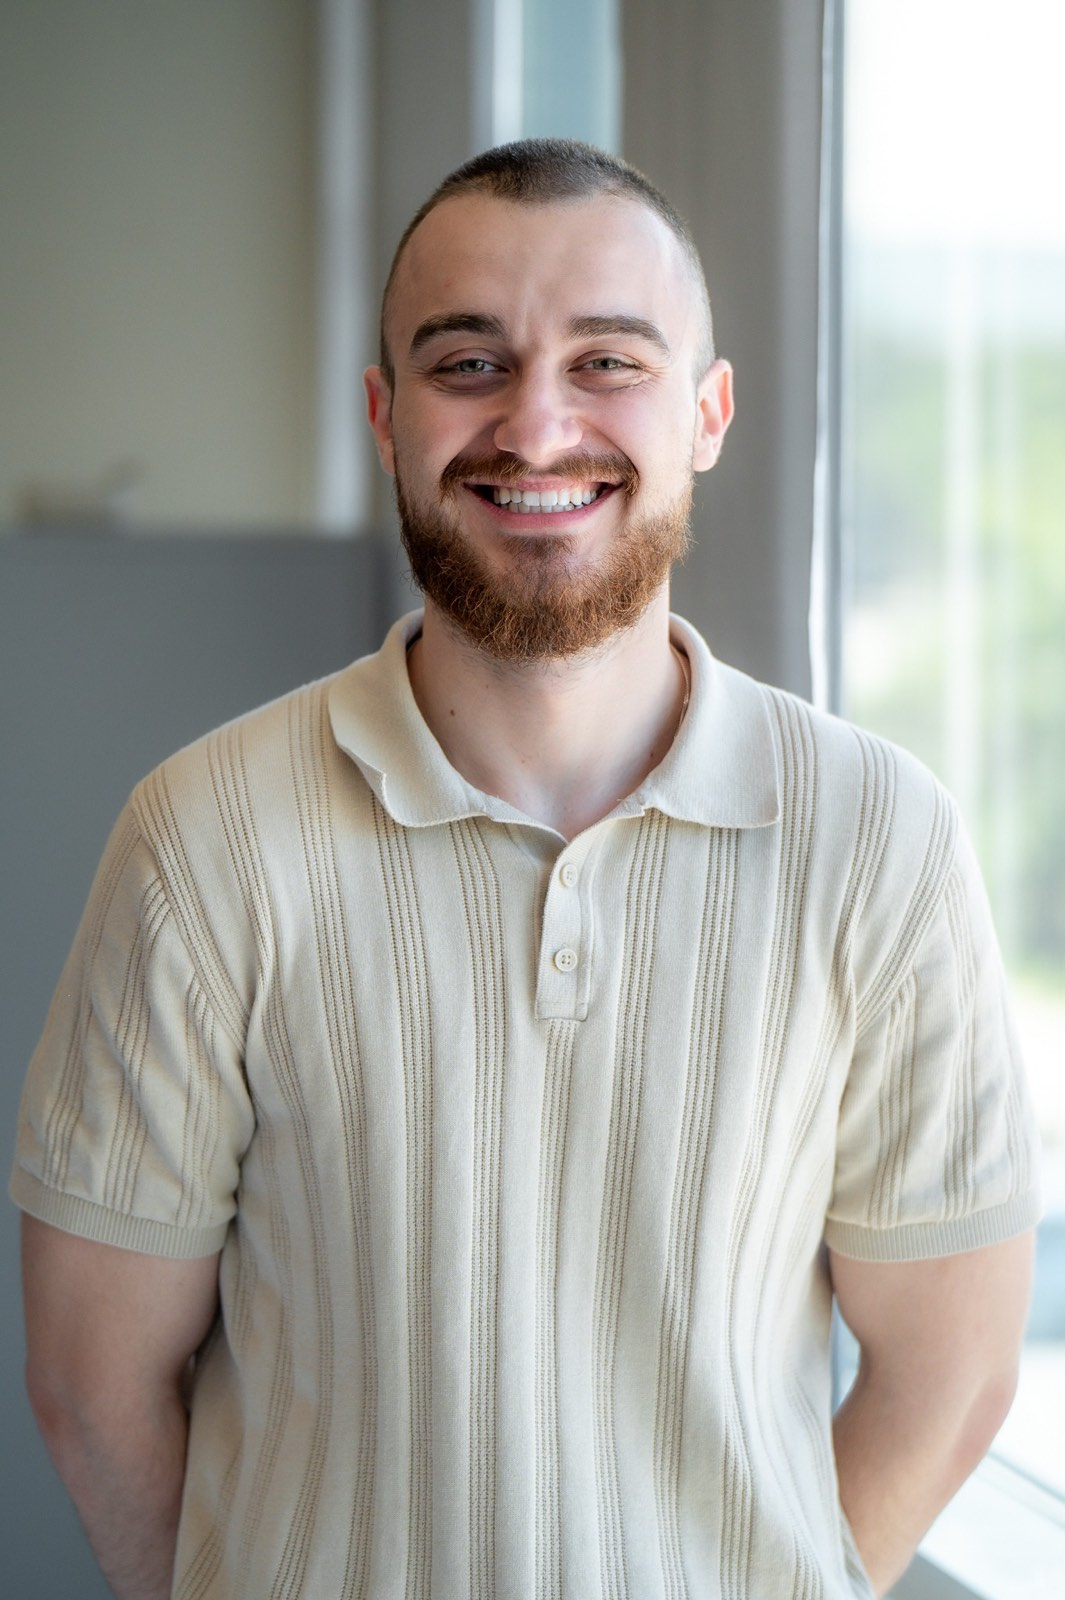
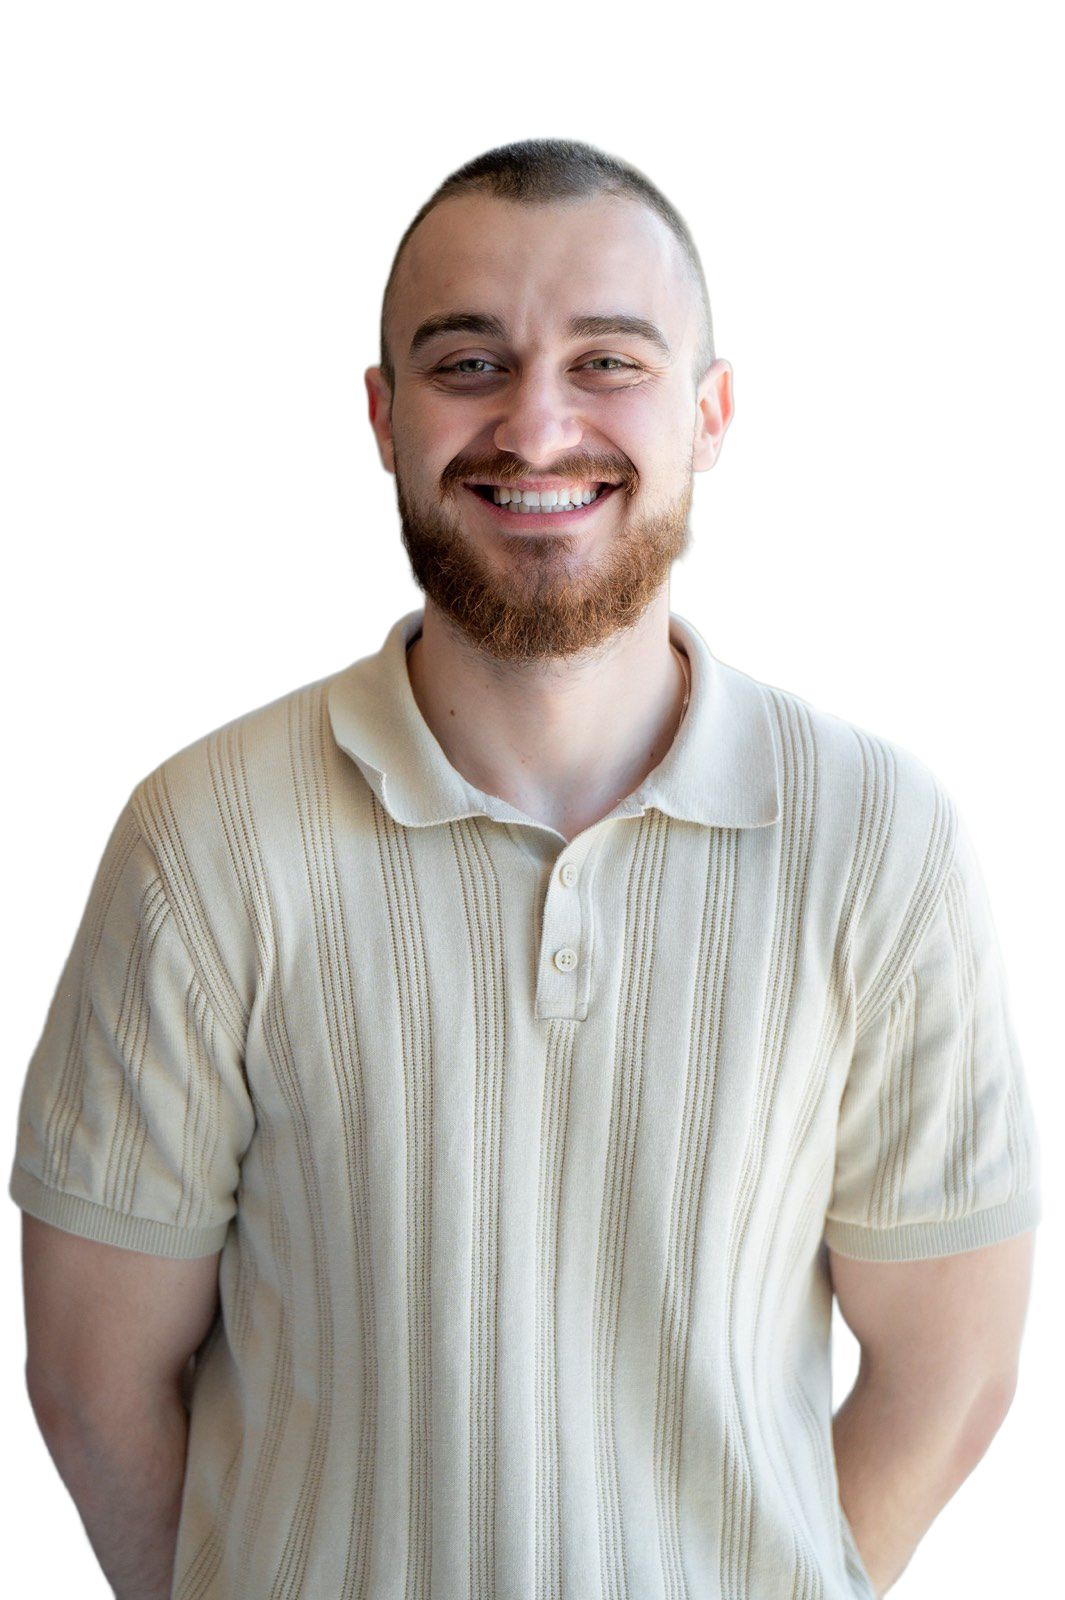
feat: refresh mentor photos and order

diff --git a/events/hr-rushforpractice/index.html b/events/hr-rushforpractice/index.html
@@ -1890,5 +1890,18 @@
   const estelMentor = document.querySelector('#mentors .mentor-card:last-of-type');
   if (estelMentor && !document.querySelector('[data-mentor="estel-artuzo"]')) estelMentor.insertAdjacentHTML('afterend', '<article class="mentor-card" data-mentor="estel-artuzo"><div class="mentor-photo"><img src="assets/mentors/estel-artuzo.jpg" alt="Естел Артузо" loading="lazy"></div><div class="mentor-body"><h4>Естел Артузо</h4><div class="role">Победител в HR:Rush for Practice · Ментор</div><p>Вярвам, че най-ценният опит е този, който можеш да споделиш с другите.</p><p>Като настоящ победител познавам състезанието от страната на участника и знам колко важни са добрата комуникация, работата в екип и увереността в собствените идеи.</p><p>Като ментор искам да споделя този опит и да помогна на участниците да развият собствен подход, да използват силните страни на екипа си и да превърнат добрите идеи в работещи решения.</p><p>За мен HR:Rush for Practice не е просто състезание, а възможност да се учиш, да се предизвикваш и да откриеш на какво си способен, когато дадеш най-доброто от себе си.</p><div class="social-links"><a href="https://www.facebook.com/share/19Nw376rEX/?mibextid=wwXIfr" target="_blank" rel="noopener noreferrer">Facebook</a><a href="https://www.linkedin.com/in/estelartuzo?utm_source=share_via&utm_content=profile&utm_medium=member_ios" target="_blank" rel="noopener noreferrer">LinkedIn</a></div></div></article>');
 </script>
+<script>
+  (function(){
+    var grid = document.querySelector('#mentors .cards-grid');
+    if(!grid) return;
+    var order = ['Йоанна Михова','Цветелин Николов','Красен Станев','Илияна Георгиева','Десислава Кехайова','Емануел Тонев','Ивелина Танева','Виктория Димитрова','Дарина Христова','Бранислав Панов','Христо Чолаков','Роман Китипов','Естел Артузо'];
+    var cards = Array.prototype.slice.call(grid.querySelectorAll('.mentor-card'));
+    var byName = {};
+    cards.forEach(function(card){ var name = card.querySelector('h4'); if(name) byName[name.textContent.trim()] = card; });
+    order.forEach(function(name){ if(byName[name]) grid.appendChild(byName[name]); });
+    var hristoPhoto = grid.querySelector('[data-mentor="hristo-cholakov"] .mentor-photo');
+    if(hristoPhoto) hristoPhoto.innerHTML = '<img src="assets/mentors/hristo-cholakov.jpg" alt="Христо Чолаков" loading="lazy">';
+  })();
+</script>
 </html>
 
